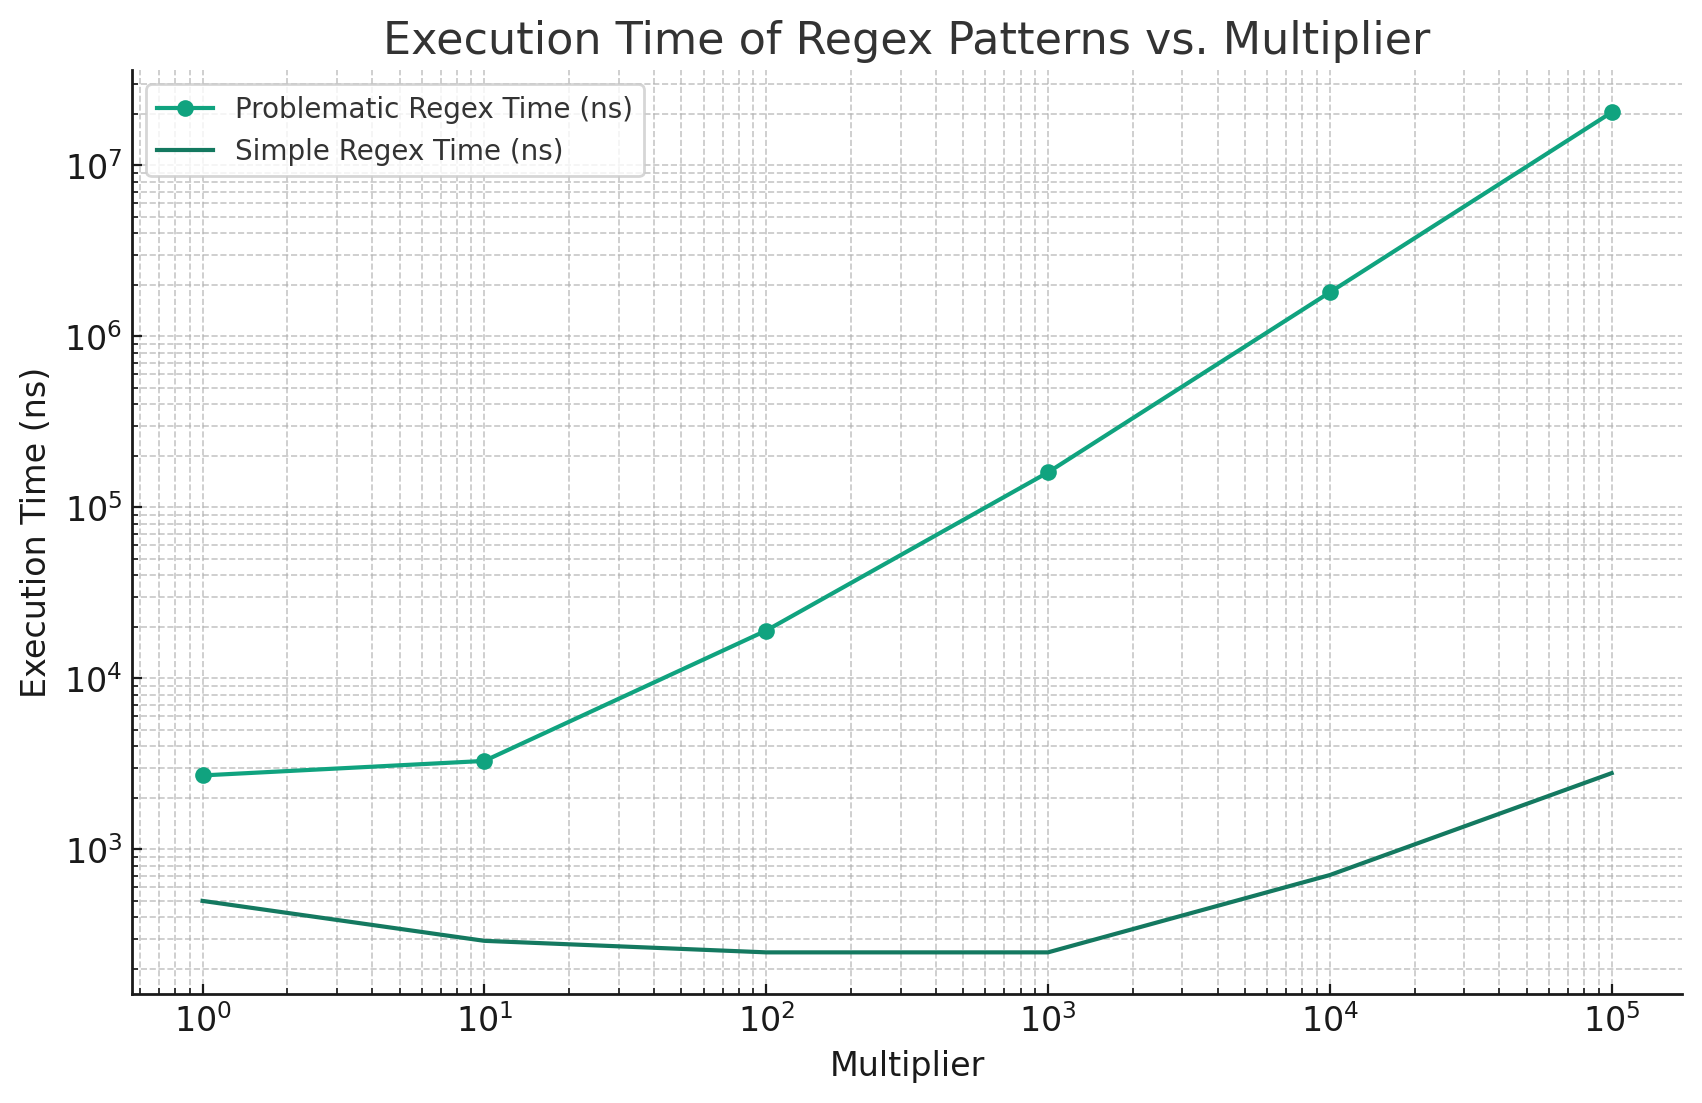
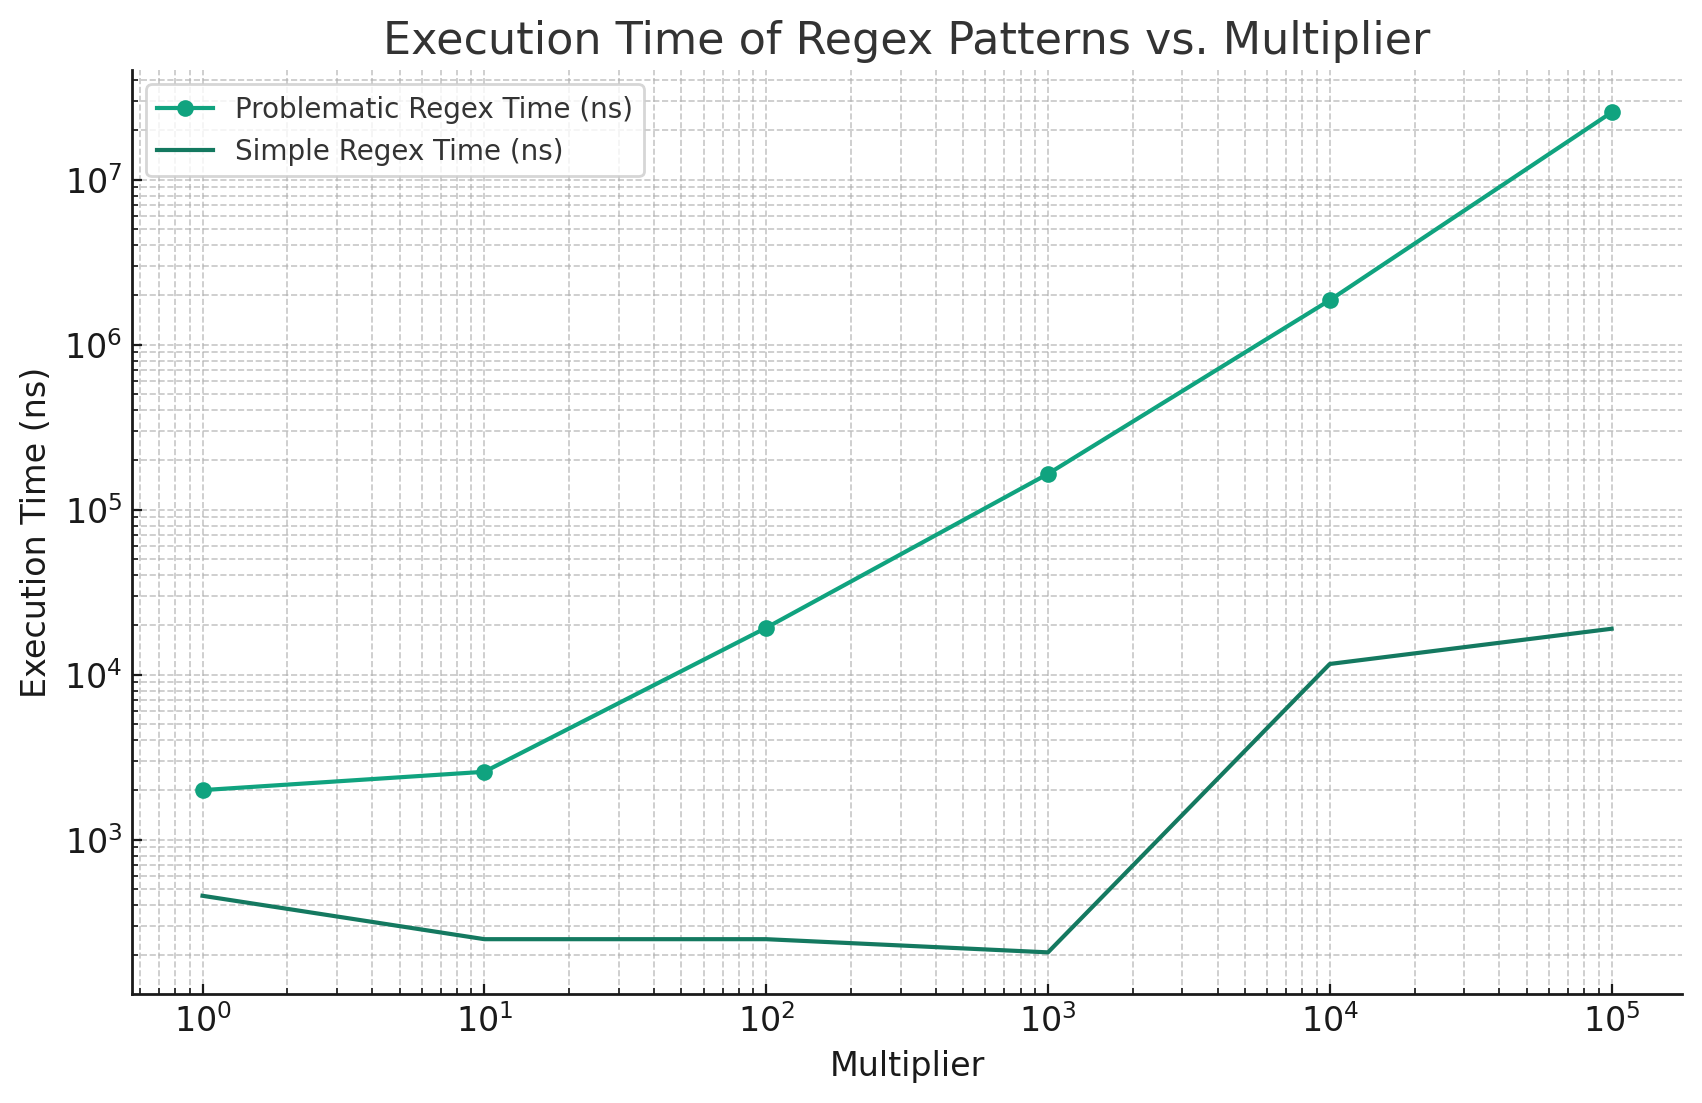
New calculations

diff --git a/content/posts/regex-catastrophic-backtracking/code/multiplier.py b/content/posts/regex-catastrophic-backtracking/code/multiplier.py
@@ -1,0 +1,43 @@
+import re
+import time
+
+
+def measure_regex_time_ns(multiplier: int):
+    # Create input strings based on the multiplier
+    input_str = 'a\nb\nc' * multiplier
+
+    # Problematic regex pattern with potential for catastrophic backtracking
+    problematic_pattern = re.compile(r'((\n*.*\n*)*)')
+
+    # Simplified pattern that doesn't cause backtracking, with re.DOTALL flag and non-greedy matching
+    simple_pattern_non_greedy = re.compile(r'(.*?)', re.DOTALL)
+
+    # Measure time taken for matching with problematic pattern using re.search
+    start_time = time.perf_counter_ns()
+    regex_match = problematic_pattern.search(input_str)
+    end_time = time.perf_counter_ns()
+    problematic_time = end_time - start_time
+
+    # Measure time taken for matching with simplified pattern using re.search
+    start_time = time.perf_counter_ns()
+    regex_match = simple_pattern_non_greedy.search(input_str)
+    end_time = time.perf_counter_ns()
+    simple_time_non_greedy = end_time - start_time
+
+    return problematic_time, simple_time_non_greedy
+
+
+def main():
+    # Test the function with multiples for string length (1, 10, 100, 1000, 10000, 100000)
+    multipliers = [int(10 ** i) for i in range(6)]
+    for multiplier in multipliers:
+        problematic_time, simple_time = measure_regex_time_ns(multiplier)
+        print("Multiplier:", multiplier)
+        print("Problematic Regex Time (ns):", problematic_time)
+        print("Simple Regex Time (ns):", simple_time)
+        print("Ratio of Times:", problematic_time / simple_time)
+        print("-" * 30 + "\n" * 3)
+
+
+if __name__ == "__main__":
+    main()

diff --git a/content/posts/regex-catastrophic-backtracking/index.md b/content/posts/regex-catastrophic-backtracking/index.md
@@ -76,7 +76,7 @@ This is known as *catastrophic backtracking*. The regex engine matches as far as
 
 What we really want here is just to match all the text inside `<summary>` tags in a **non-greedy** fashion - if there are multiple `<summary>` tags, their contents should match separately.
 
-To avoid catastrophic backtracking, the key is to make the repeating subpattern non-greedy, by adding the character `?` to the end as shown above in the documentation. Additionally, since we want to match newlines inside the tags, we add the `re.DOTALL` flag.
+To avoid catastrophic backtracking, the key is to make the repeating subpattern non-greedy, by adding the character `?` to the end as shown above in the documentation. Additionally, since we want to match newlines inside the tags, we add the `re.DOTALL` flag to ensure that the `.` character matches newlines as well.
 
 ```python
 pattern_str = r"<summary>(.*?)</summary>"
@@ -85,12 +85,14 @@ regex_match = re.search(pattern_str, content.strip(), flags=re.DOTALL)
 
 Now, we get the smallest possible sequence of characters that are in between `<summary>` tags. This avoids getting stuck trying to match newlines exhaustively, and is also much easier to read!
 
-Making the repeat non-greedy prevents the combinatorial explosion and makes the runtime linear rather than exponential in the worst case.
+Making the pattern non-greedy prevents the combinatorial explosion and makes the runtime linear rather than exponential in the worst case.
 
 
 ## Differences in performance
 
-Here is an small script I ran to compare the performance of both regexes. The idea behind this script is to use a pattern with a few newlines (`a\nb\nc`) and multiply this by some factor to induce a string with more
+### Test script
+
+Here is an small script I ran to compare the performance of both regexes. The idea behind this script is to use a pattern with a few newlines (`a\nb\nc`) and multiply this by some factor to induce a string with more newlines that can get caught by the repeating greedy match in the original regex. Addiitonally, we remove the `<summary>` tags surrounding the input as it is not needed to demonstrate the behavior.
 
 Additionally, we use the [re.compile](https://docs.python.org/3/library/re.html#re.compile) method to create a regular expression object that can be reused many times in the same program more efficiently. This call also lets us pass in the `re.DOTALL` flag once when the regex is created rather than on every invocation.
 
@@ -98,7 +100,6 @@ Note that **both** regexes are compiled before they are used to ensure consisten
 
     ```python
     import re
-    import sys
     import time
 
 
@@ -133,8 +134,8 @@ Note that **both** regexes are compiled before they are used to ensure consisten
         for multiplier in multipliers:
             problematic_time, simple_time = measure_regex_time_ns(multiplier)
             print("Multiplier:", multiplier)
-            print("Problematic Regex Time:", problematic_time)
-            print("Simple Regex Time:", simple_time)
+            print("Problematic Regex Time (ns):", problematic_time)
+            print("Simple Regex Time (ns):", simple_time)
             print("Ratio of Times:", problematic_time / simple_time)
             print("-" * 30 + "\n" * 3)
 
@@ -142,6 +143,9 @@ Note that **both** regexes are compiled before they are used to ensure consisten
     if __name__ == "__main__":
         main()
     ```
+
+### Results
+
 
   Here were the results with various input values for `multiplier` from running on my laptop (Macbook Pro M1 Max, 32GB RAM) using Python 3.11.3.
 
@@ -195,11 +199,16 @@ Note that **both** regexes are compiled before they are used to ensure consisten
 
 As you can see, the problematic regex demonstrates increasingly poor performance on long input sequences, and scales incredibly poorly compared to the simple regex.
 
-Here is a log-log plot of multiplier vs execution time which illustrates this relationship:
+Below is a log-log plot of multiplier vs execution time which illustrates this relationship. Both the X and Y axes are scaled logarithmically to make the exponential relationship between the variables clearer.
 
 ![Regex performance graph](img/catastrophic_backtracking_performance_graph.png)
 
-and the code to generate this plot:
+As you can see, the execution time scales exponentially for the problematic regex as the input size scales. By contrast, the simple regex's execution time grows much more slowly and only increases by 1 order of magnitude even as the input size grows by 5 orders of magnitude!
+
+
+### Plotting code
+
+Here is the code used to generate this plot:
 
 ```python
 import matplotlib.pyplot as plt
@@ -207,8 +216,8 @@ import numpy as np
 
 # Data to plot
 multipliers = np.array([1, 10, 100, 1000, 10000, 100000])
-problematic_times = np.array([2708, 3292, 19042, 160291, 1809958, 20424917])
-simple_times = np.array([500, 292, 250, 250, 708, 2792])
+problematic_times = np.array([2000, 2583, 19250, 164875, 1860708, 25549500])
+simple_times = np.array([458, 250, 250, 208, 11625, 19000])
 
 # Plotting the data
 plt.figure(figsize=(10, 6))
